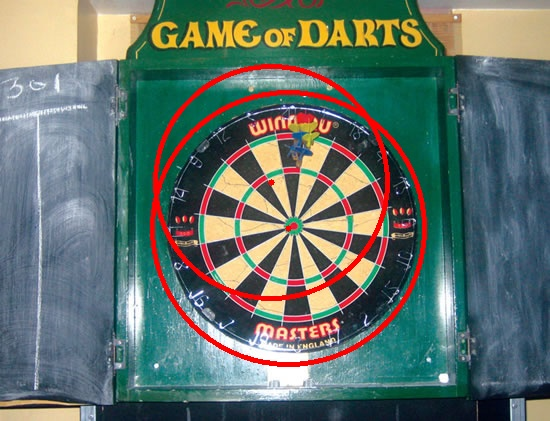
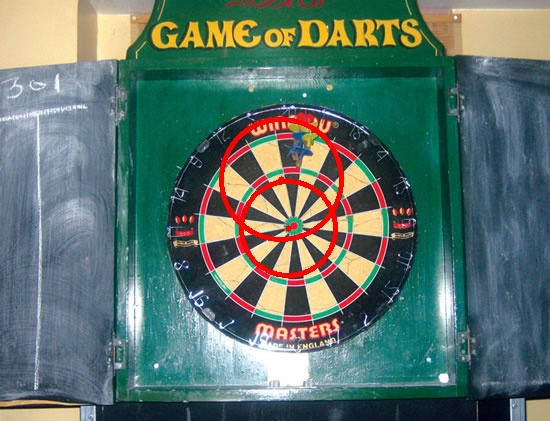
Includes circles in combination

Changed region(s): [[0.2473, 0.1235, 0.8036, 0.8955], [0.5873, 0.6176, 0.6491, 0.6793], [0.34, 0.1853, 0.4018, 0.247]]

diff --git a/Assignment/task3/task.cpp b/Assignment/task3/task.cpp
@@ -219,6 +219,7 @@ void Detector::houghTransformLine() {
             Point o1, p1;
             double a = cos(theta), b = sin(theta);
             double x0 = a*rho, y0 = b*rho;
+
             o1.x = cvRound(x0 + 1000*(-b));
             o1.y = cvRound(y0 + 1000*(a));
             p1.x = cvRound(x0 - 1000*(-b));
@@ -307,32 +308,47 @@ void Detector::violaJones() {
 void Detector::combineDectections() {
     vector<Rect>::iterator viola;
     for (viola = viola_hits.begin(); viola!= viola_hits.end(); ++viola) {
-        vector<Point> hits;
+        vector<Point> line_score;
+        vector<CircleDetection> circle_score;
 
         vector<Point>::iterator line_hit;
         for (line_hit = line_hits.begin(); line_hit != line_hits.end(); ++line_hit) {
 
             if (line_hit->x >= viola->x && line_hit->y >= viola->y && line_hit->x <= (viola->x + viola->width) && line_hit->y <= (viola->y + viola->height)) {
-                hits.push_back(*line_hit);
+                line_score.push_back(*line_hit);
             }
 
         }
 
-        if(hits.empty()) {
+        vector<CircleDetection>::iterator circle_hit;
+        for (circle_hit = circle_hits.begin(); circle_hit != circle_hits.end(); ++circle_hit) {
+
+            if (circle_hit->center.x >= viola->x && circle_hit->center.y >= viola->y && circle_hit->center.x <= (viola->x + viola->width) && circle_hit->center.y <= (viola->y + viola->height)) {
+                circle_score.push_back(*circle_hit);
+            }
+
+        }
+
+        if(line_score.empty() && circle_score.empty()) {
             continue;
         }
 
         float avx, avy, radius;
-        avx = 0;
-        avy = 0;
-        vector<Point>::iterator point;
-        for (point = hits.begin(); point != hits.end(); ++point) {
-            avx += point->x;
-            avy += point->y;
+        avx = avy = radius = 0;
+
+        for (line_hit = line_score.begin(); line_hit != line_score.end(); ++line_hit) {
+            avx += line_hit->x;
+            avy += line_hit->y;
         }
-        avx = avx / hits.size();
-        avy = avy / hits.size();
-        radius = (viola->width + viola->height) / 2;
+        for (circle_hit = circle_score.begin(); circle_hit != circle_score.end(); ++circle_hit) {
+            avx += circle_hit->center.x;
+            avy += circle_hit->center.y;
+            radius += circle_hit->radius;
+        }
+
+        avx = avx / (line_score.size() + circle_score.size());
+        avy = avy / (line_score.size() + circle_score.size());
+        radius = (viola->width + viola->height + radius) / (2 + circle_score.size());
 
         DartBoard dartboard;
         dartboard.center = {int(avx), int(avy)};
